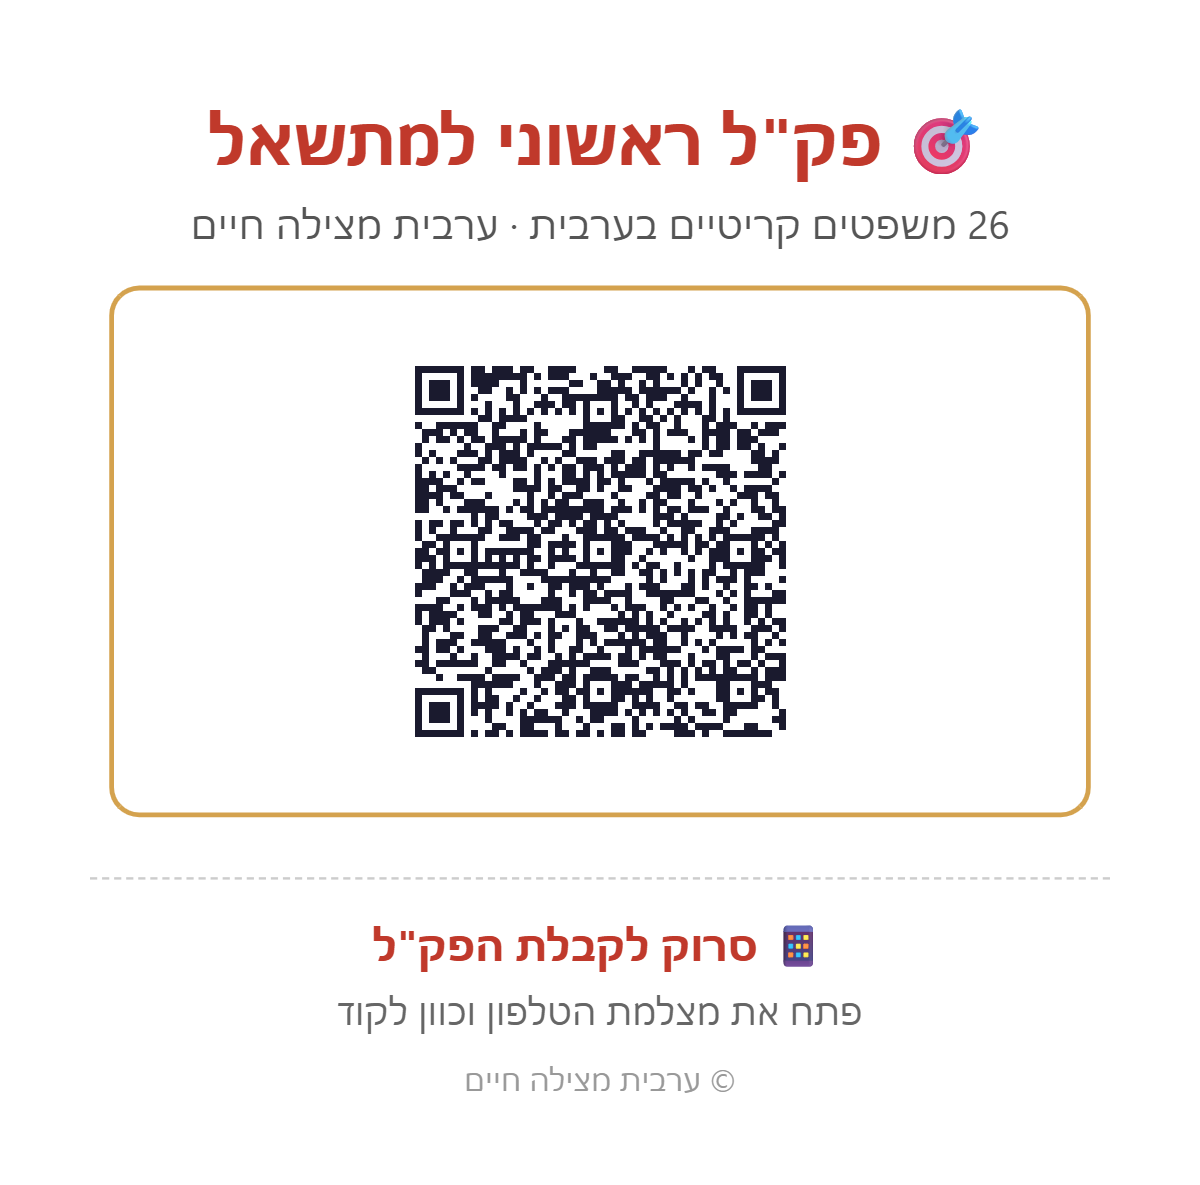
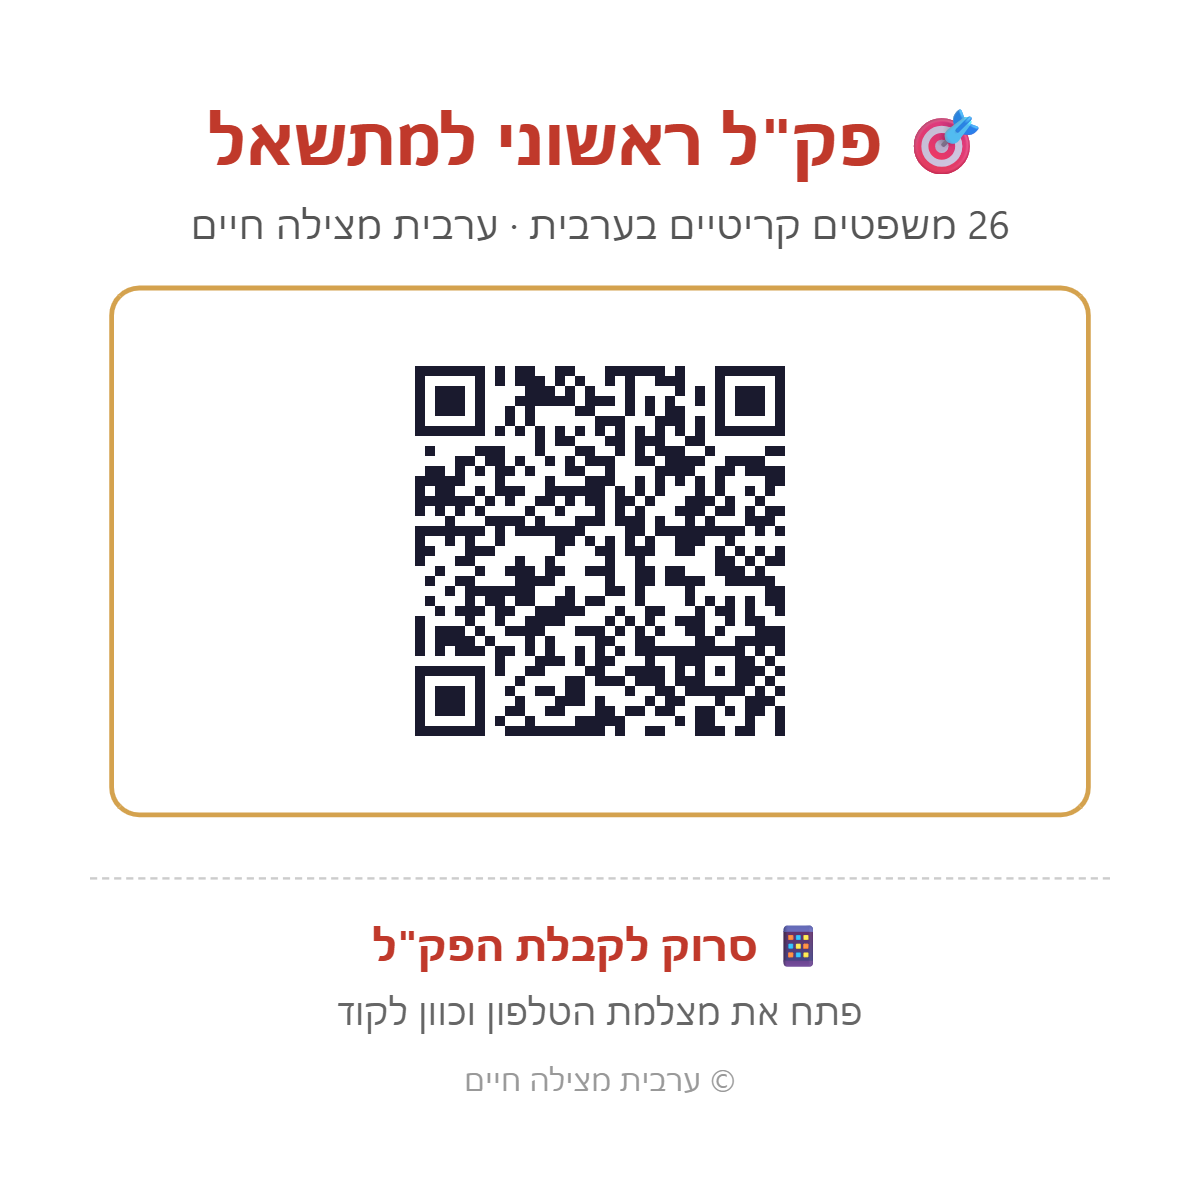
Interrogator kit page (/pakal.html) + QR to it; SW no longer caches other pages as the app shell
The 26 phrases come from the kit's pocket sheet. Navigations to pages other
than / and /index.html used to overwrite the cached app shell; now only the
app itself refreshes it.

Claude-Session: https://claude.ai/code/session_01JWitva4KuM16NEBmg4q8Jg

Changed region(s): [[0.3392, 0.3122, 0.6783, 0.6245]]

diff --git a/pakal.html b/pakal.html
@@ -1,0 +1,131 @@
+<!doctype html>
+<html lang="he" dir="rtl">
+<head>
+<meta charset="utf-8">
+<meta name="viewport" content="width=device-width, initial-scale=1, viewport-fit=cover">
+<title>פק״ל ראשוני למתשאל · ערבית מצילה חיים</title>
+<meta name="description" content="26 משפטים קריטיים בערבית מדוברת לשטח ולתשאול, מאת אדית חגי: 31 שנות שירות ב־8200, הכשירה מתשאלים קרביים.">
+<meta property="og:title" content="🎯 פק״ל ראשוני למתשאל: 26 משפטים קריטיים בערבית">
+<meta property="og:description" content="מאת אדית חגי: 31 שנות שירות ב־8200, הכשירה מתשאלים קרביים. ערבית מצילה חיים.">
+<meta property="og:image" content="https://arabicsaveslives.hagaiedit.workers.dev/icon-512.png">
+<meta name="theme-color" content="#0E1B2E">
+<link rel="icon" href="./icon.svg">
+<style>
+  *{box-sizing:border-box;margin:0;padding:0;}
+  :root{--bg:#0E1B2E;--card:#16263B;--line:#2A3D52;--gold:#D4A24E;--gold2:#E9BE6A;--text:#E8D9B8;--muted:#9fb2c6;--white:#fff;--green:#1D9E75;}
+  body{background:var(--bg);color:var(--text);font-family:"Assistant","Heebo","Arial Hebrew",Arial,sans-serif;line-height:1.5;-webkit-text-size-adjust:100%;}
+  .wrap{max-width:640px;margin:0 auto;padding:22px 16px calc(32px + env(safe-area-inset-bottom));}
+  header{text-align:center;padding:8px 0 18px;border-bottom:2px solid var(--gold);margin-bottom:16px;}
+  .brand{color:var(--gold);font-size:13px;font-weight:800;letter-spacing:1px;}
+  h1{color:var(--white);font-size:28px;font-weight:900;margin-top:6px;line-height:1.25;}
+  .sub{color:var(--text);font-size:15.5px;font-weight:700;margin-top:4px;}
+  .by{margin-top:12px;color:var(--muted);font-size:13.5px;line-height:1.6;}
+  .by b{color:var(--gold2);}
+  .tip{background:rgba(212,162,78,.10);border:1px solid rgba(212,162,78,.4);border-radius:12px;padding:10px 14px;font-size:14px;margin-bottom:16px;text-align:center;}
+  h2{font-size:17px;font-weight:900;color:var(--white);margin:20px 0 8px;display:flex;align-items:center;gap:8px;}
+  h2 .n{color:var(--muted);font-size:13px;font-weight:700;}
+  .row{background:var(--card);border:1px solid var(--line);border-radius:12px;padding:10px 14px;margin-bottom:8px;display:grid;grid-template-columns:28px 1fr;gap:2px 10px;align-items:start;}
+  .num{grid-row:span 3;color:var(--gold);font-weight:900;font-size:15px;padding-top:2px;}
+  .he{color:var(--text);font-size:15px;font-weight:800;}
+  .ar{color:var(--white);font-size:23px;font-weight:700;line-height:1.45;font-family:"Noto Naskh Arabic","Geeza Pro","Arial",sans-serif;}
+  .tr{color:var(--gold2);font-size:16px;}
+  .cta{margin-top:24px;background:linear-gradient(180deg,#1c2f47,#152539);border:1px solid var(--line);border-radius:16px;padding:18px 16px;text-align:center;}
+  .cta .t{color:var(--white);font-size:19px;font-weight:900;}
+  .cta p{color:var(--text);font-size:14.5px;line-height:1.7;margin-top:8px;}
+  .btn{display:block;width:100%;margin-top:12px;padding:14px;border-radius:12px;font-size:16px;font-weight:800;text-decoration:none;font-family:inherit;border:none;cursor:pointer;}
+  .btn-wa{background:var(--green);color:#fff;}
+  .btn-kit{background:transparent;color:var(--gold);border:1px solid var(--gold);}
+  .btn-print{background:#2A3D52;color:var(--text);font-size:14px;padding:11px;}
+  footer{margin-top:22px;text-align:center;color:#7a9ab5;font-size:12px;line-height:1.7;}
+  footer a{color:var(--gold);}
+  @media print{
+    body{background:#fff;color:#111;}
+    .wrap{max-width:none;padding:0 6mm;}
+    header{border-color:#C0392B;}
+    h1,h2,.ar{color:#111;} .sub,.he{color:#222;} .by,.by b,.brand{color:#555;}
+    .tr{color:#8a5a00;} .num{color:#C0392B;}
+    .row{background:#fff;border-color:#ccc;break-inside:avoid;padding:6px 10px;margin-bottom:5px;}
+    .ar{font-size:18px;} .tip,.cta .btn,.btn-print{display:none;}
+    .cta{background:#fff;border-color:#ccc;}
+    .cta .t{color:#111;} .cta p{color:#222;}
+  }
+</style>
+</head>
+<body>
+<div class="wrap">
+  <header>
+    <div class="brand">ערבית מצילה חיים</div>
+    <h1>🎯 פק״ל ראשוני למתשאל</h1>
+    <div class="sub">26 משפטים קריטיים בערבית מדוברת</div>
+    <div class="by"><b>מאת אדית חגי</b>: 31 שנות שירות ב־8200, הובילה את הוראת השפות בחיל המודיעין והכשירה מתשאלים קרביים.</div>
+  </header>
+
+  <div class="tip">💡 5 משפטים ביום, בקול. תוך שבוע הם יושבים.</div>
+
+  <main id="list"></main>
+
+  <section class="cta">
+    <div class="t">זו רק ההתחלה</div>
+    <p>בערכה המלאה: מאות משפטים מוקלטים בקולי, "מה אמרו לי?" כשלא הבנתם מה נאמר, 10 השניות הראשונות ומסלול הכנה לשירות קרבי.<br><b>אנחנו לא מלמדים ערבית: אנחנו בונים אינסטינקט תגובה בשטח.</b></p>
+    <a class="btn btn-wa" id="wa" href="#" target="_blank" rel="noopener">📲 עדכנו אותי כשהערכה המלאה נפתחת</a>
+    <a class="btn btn-kit" href="./">להצצה בערכה ←</a>
+    <button class="btn btn-print" onclick="window.print()">🖨 הדפסה / שמירה כ־PDF</button>
+  </section>
+
+  <footer>
+    התעתיק העברי הוא קירוב להגייה המדוברת. את ההגייה המדויקת שומעים בהקלטות שבערכה.<br>
+    התוכן הוא כלי עזר בלבד ואינו מחליף הכשרה, נהלים או הוראות.<br>
+    © ערבית מצילה חיים · דרכי המזרח בע״מ
+  </footer>
+</div>
+<script>
+var SECTIONS=[
+  {t:'🟥 שליטה', rows:[
+    ['עצור!','وقّف!','וַקֵּף!'],
+    ['ידיים למעלה!','ارفع إيديك!','אִרְפַע אִידֵיכּ!'],
+    ['אל תזוז!','لا تتحرّك!','לַא תִתְחַרַּכּ!'],
+    ['תישאר כאן, אסור לזוז!','خليك هون، ممنوع تتحرك!','חַ׳לִיכּ הוֹן, מַמְנוּע תִתְחַרַּכּ!'],
+    ['הראה לי את הידיים שלך!','ورّيني إيديك!','וַרִּינִי אִידֵיכּ!'],
+    ['שב על הרצפה','اقعد عالأرض','אֻקְעֻד עַאלְאַרְד׳'],
+    ['אל תיגע בכלום','لا تمسك شي','לַא תִּמְסֵכּ שִׁי'],
+    ['שתוק ותקשיב','اسكت واسمع','אֻסְכֻּת וּאִסְמַע']
+  ]},
+  {t:'🟦 זיהוי ותשאול', rows:[
+    ['מה השם שלך?','شو اسمك؟','שׁוּ אִסְמַכּ?'],
+    ['מה השם המלא שלך?','شو اسمك الرباعي؟','שׁוּ אִסְמַכּ אלרֻבַּאעִי?'],
+    ['מה שם אביך ושם המשפחה?','شو اسم أبوك واسم العيلة؟','שׁוּ אִסְם אַבּוּכּ וּאִסְם אִלְעֵילֶה?'],
+    ['בן כמה אתה?','قدّيش عمرك؟','קַדֵּיש עֻמְרַכּ?'],
+    ['איפה אתה גר?','وين إنت ساكن؟','וֵין אִנְתֵ סָאכֶּן?'],
+    ['מאיפה באת?','من وين جيت؟','מִן וֵין גִ׳ית?'],
+    ['לאן אתה הולך?','لوين إنت رايح؟','לַוֵין אִנְתֵ רָאיֵח?'],
+    ['למה אתה פה?','ليش إنت هون؟','לֵיש אִנְתֶ הוֹן?'],
+    ['תן לי תעודת זהות','اعطيني هويتك','אַעְטִינִי הַוִיּתַכּ'],
+    ['מאיפה התעודה הזו?','من وين هادي الهوية؟','מִן וֵין הַאדִי אִלְהַוִיֶּה?'],
+    ['יש איתך נשק?','في معك سلاح؟','פִי מַעַכּ סְלַאח?'],
+    ['יש לך סכין?','معك سكين؟','מַעַכּ סִכִּין?'],
+    ['מה יש בכיס? תוציא לאט','شو فيه بالجيب؟ طلّعه شوي شوي','שׁוּ פִיה בִּאלְגֵ׳יבּ? טַלְּעוֹ שְוַי שְוַי']
+  ]},
+  {t:'🟧 רכב', rows:[
+    ['כמה אנשים ברכב?','كم واحد بالسيارة؟','כַּם וַאחַד בִּאלסַיַּארַה?'],
+    ['יש נשק ברכב?','فيه سلاح بالسيارة؟','פִיה סְלַאח בִּאלסַיַּארַה?'],
+    ['פתח את תא המטען','افتح البغاز','אִפְתַח אִלְבַּגַ׳אז']
+  ]},
+  {t:'🟩 הרגעה ועזרה', rows:[
+    ['יש פצוע?','فيه مجروح؟','פִיה מַגְ׳רוּח?'],
+    ['אל תפחד, באנו לעזור','لا تخاف، جينا نساعدك','לַא תְחַ׳אף, גִ׳ינַא נְסַאעְדַכּ']
+  ]}
+];
+function esc(s){return String(s).replace(/[&<>"]/g,function(c){return {'&':'&amp;','<':'&lt;','>':'&gt;','"':'&quot;'}[c];});}
+var n=0, h='';
+SECTIONS.forEach(function(s){
+  h+='<h2>'+esc(s.t)+' <span class="n">('+s.rows.length+')</span></h2>';
+  s.rows.forEach(function(r){ n++;
+    h+='<div class="row"><div class="num">'+n+'</div><div class="he">'+esc(r[0])+'</div>'+
+       '<div class="ar" lang="ar" dir="rtl">'+esc(r[1])+'</div><div class="tr">'+esc(r[2])+'</div></div>';
+  });
+});
+document.getElementById('list').innerHTML=h;
+document.getElementById('wa').href='https://wa.me/972529247768?text='+encodeURIComponent('היי אדית, קיבלתי את הפק״ל 🎯 אשמח לשמוע כשהערכה המלאה נפתחת');
+</script>
+</body>
+</html>

diff --git a/sw.js b/sw.js
@@ -1,6 +1,6 @@
 /* Service worker for "ערבית מצילה חיים" — offline-first field use.
    Bump CACHE when shipping changes that must invalidate old caches. */
-const CACHE = 'asl-v356';
+const CACHE = 'asl-v357';
 // Recordings + fonts live in a separate cache that SURVIVES app updates —
 // otherwise every version bump would silently wipe the downloaded offline pack.
 const MEDIA = 'asl-media-v1';
@@ -56,12 +56,18 @@ self.addEventListener('fetch', function(e){
   try { url = new URL(req.url); } catch(_) { return; }
 
   // App page -> network first, fall back to cached shell (so the app opens with no signal)
+  // Only the app itself (/ or /index.html) refreshes the cached shell — other pages
+  // on the site (e.g. /pakal, /10.html) must never overwrite it.
   if (req.mode === 'navigate') {
+    var isShell = /\/(index\.html)?$/.test(url.pathname);
     e.respondWith(
       fetch(req).then(function(r){
-        var cl = r.clone(); caches.open(CACHE).then(function(c){ c.put('./index.html', cl); });
+        if (isShell && r.ok) { var cl = r.clone(); caches.open(CACHE).then(function(c){ c.put('./index.html', cl); }); }
         return r;
-      }).catch(function(){ return caches.match('./index.html').then(function(r){ return r || caches.match('./'); }); })
+      }).catch(function(){
+        if (isShell) return caches.match('./index.html').then(function(r){ return r || caches.match('./'); });
+        return caches.match(req).then(function(r){ return r || caches.match('./index.html'); });
+      })
     );
     return;
   }

diff --git a/index.html b/index.html
@@ -24677,7 +24677,7 @@ window.addEventListener('load', function(){
 <script>
 // Version stamp — shown in the admin panel so we can confirm which build is live
 // on a device (stale service-worker caches were causing "my changes don't show").
-window.APP_VERSION = 'v347';
+window.APP_VERSION = 'v348';
 
 // Register the service worker for full offline use in the field, WITH update
 // detection: when a new version installs, offer a one-tap refresh instead of the

diff --git a/commercial/PAKAL_WHATSAPP.md b/commercial/PAKAL_WHATSAPP.md
@@ -1,9 +1,10 @@
-# פק"ל ראשוני למתשאל: הודעות לוואטסאפ
+# פק"ל ראשוני למתשאל: דף והודעות
 
-הפק"ל משמש לאיסוף אנשי קשר. מי שסורק את הקוד (או כותב "פק״ל") שולח לך הודעה, את עונה עם הקובץ, והוא נכנס לרשימה שלך.
-קובץ הפלייר עם הקוד: `marketing/pakal-mitashel-qr.png`.
+- **הדף:** https://arabicsaveslives.hagaiedit.workers.dev/pakal.html (הקובץ `pakal.html`). 26 משפטים בערבית, תעתיק ותרגום, עם כפתורים: "עדכנו אותי כשהערכה המלאה נפתחת" (וואטסאפ), "להצצה בערכה" ו"הדפסה / שמירה כ־PDF".
+- **הפלייר עם הקוד שמוביל לדף:** `marketing/pakal-mitashel-qr.png`. הקוד לבד: `marketing/qr-pakal-page.png`.
+- **קוד חלופי שפותח וואטסאפ אלייך:** `marketing/qr-pakal-whatsapp.png`.
 
-> **חשוב:** מי שרואה את הפלייר בטלפון לא יכול לסרוק את המסך של עצמו. לכן בפרסום בוואטסאפ תמיד מוסיפים "או כתבו לי בפרטי פק״ל". הקוד עצמו מתאים לדף מודפס, להרצאה ולמצגת.
+> בוואטסאפ תמיד שמים גם את הקישור, כי מי שרואה את הפלייר בטלפון לא יכול לסרוק את המסך של עצמו. הקוד מתאים לדף מודפס, להרצאה ולמצגת.
 
 ---
 
@@ -15,26 +16,16 @@
 
 אני אדית חגי. ב־31 שנות שירות ב־8200 הכשרתי מתשאלים קרביים.
 
-📲 סורקים את הקוד, או כותבים לי בפרטי *"פק״ל"*, ומקבלים אותו בחינם.
+👉 בחינם, כאן: https://arabicsaveslives.hagaiedit.workers.dev/pakal.html
 
 ---
 
-## 2. תשובה למי שביקש את הפק"ל (מצרפים את קובץ הפק"ל)
+## 2. תשובה למי שלחץ בדף על "עדכנו אותי"
 
-היי 👋 תודה שפנית!
-מצורף הפק"ל הראשוני למתשאל 🎯 26 משפטים קריטיים בערבית מדוברת.
+מגיעה הודעה: "היי אדית, קיבלתי את הפק״ל 🎯 אשמח לשמוע כשהערכה המלאה נפתחת".
 
+מעולה, רשמתי 🙏
 💡 *טיפ:* 5 משפטים ביום, בקול. תוך שבוע הם יושבים.
-
 לקראת מה ההכנה? קורס מתשאלים, שירות קרבי או מילואים?
-
-ועוד משהו: בקרוב נפתחת *ערבית מצילה חיים*, ערכת שטח מלאה עם מאות משפטים מוקלטים בקולי, "מה אמרו לי?", 10 השניות הראשונות ומסלול הכנה לשירות קרבי.
-רוצה להיות מהראשונים לשמוע? כתבו *"כן"* ואעדכן.
-
----
-
-## 3. למי שכתב "כן"
-
-מעולה, רשמתי 🙏 אעדכן ברגע שנפתח.
 
 > לשמור ברשימה: שם, טלפון ולקראת מה ההכנה. אלה הקונים הראשונים.
